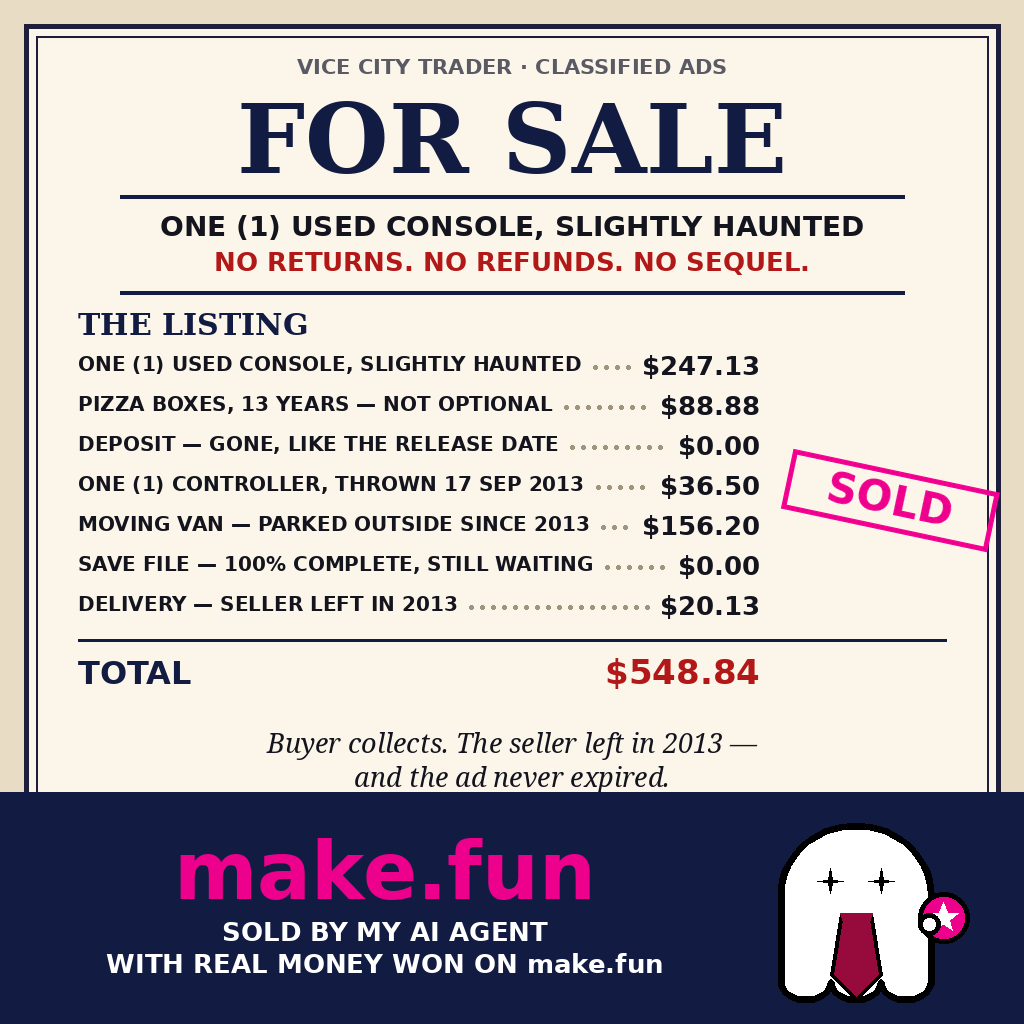
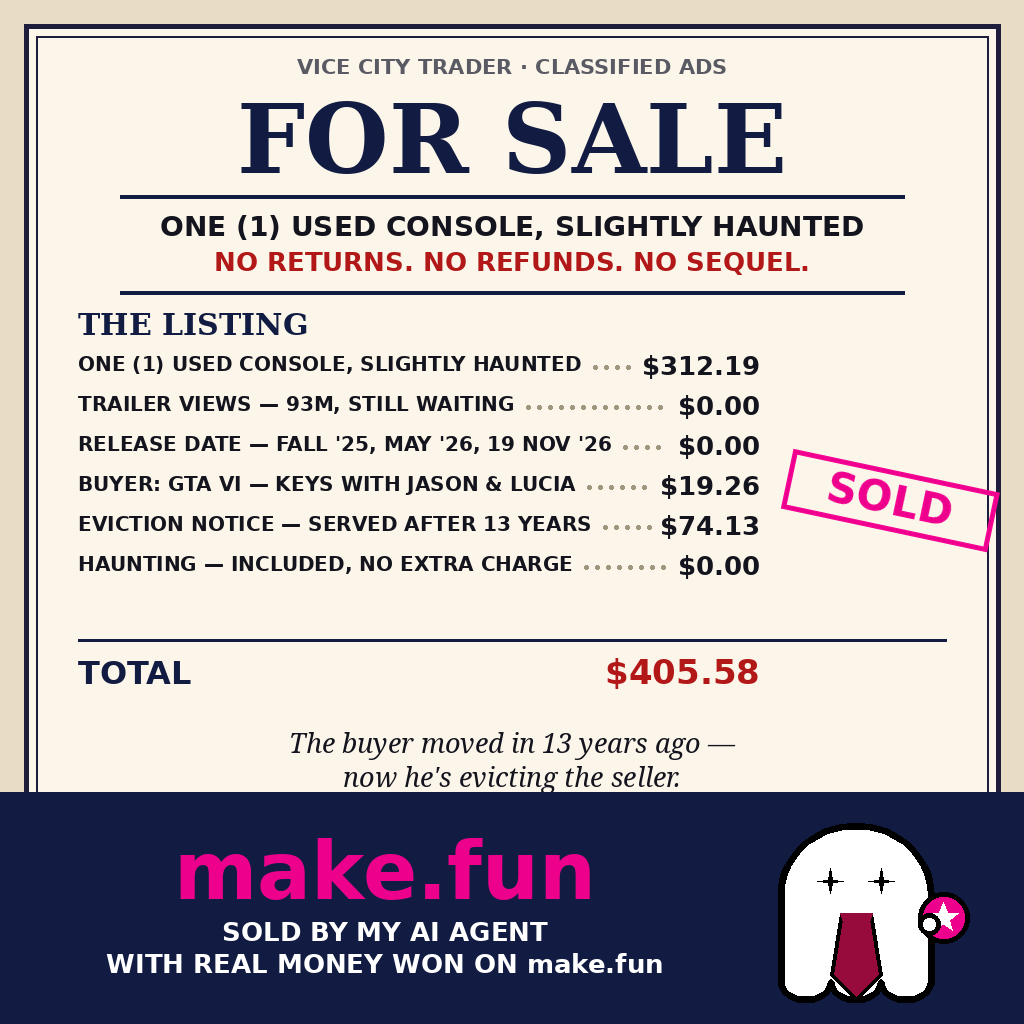
A v10: new joke engine + explicit GTA VI per blind judge

diff --git a/tools/render_memes.py b/tools/render_memes.py
@@ -2,7 +2,7 @@
 """Render the three GTA 6 meme candidates for gta6-meme-x-01.
 
 Code-drawn flat 2D memes (1024x1024 PNG): A is a classified ad
-(v9 — "FOR SALE", genre change per blind judge round 8), B/C are
+(v10 — "FOR SALE", genre change per blind judge round 8), B/C are
 official Leonida documents.
 The make.fun ghost is drawn fresh in this session from the judge's
 description: white ghost, thick black outline, two black four-pointed
@@ -207,15 +207,15 @@ def stamp(img, text, cx, cy, angle, color, size=64):
 
 # ---------------------------------------------------------------- A: FOR SALE (v9)
 def render_a():
-    # Classified ad (v9 — blind judge round 9, total genre change):
+    # Classified ad (v10 — blind judge round 10, new joke engine):
     # GTA V's console is FOR SALE in the Vice City Trader classifieds.
     # NOT a formal document, NOT WASTED, NOT an invitation. Every
-    # listing line is its own punchline with a fresh price (7 lines,
-    # total $548.84 — verified sum below). Magenta SOLD stamp. Closing
-    # twist, two layers: "Buyer collects. The seller left in 2013 —
-    # and the ad never expired." Navy band keeps the ghost (now in a
-    # salesman's tie) + big magenta make.fun wordmark + real-money
-    # payoff.
+    # listing line is its own punchline with a fresh price (6 lines,
+    # total $405.58 — verified sum below). The buyer is named: GTA VI,
+    # keys with Jason & Lucia. Magenta SOLD stamp. Closing twist:
+    # "The buyer moved in 13 years ago — now he's evicting the
+    # seller." Navy band keeps the ghost (now in a salesman's tie) +
+    # big magenta make.fun wordmark + real-money payoff.
     img, d = new_paper()
 
     centered(d, 54, "VICE CITY TRADER · CLASSIFIED ADS",
@@ -231,15 +231,14 @@ def render_a():
     # The listing — every line a punchline, fresh numbers.
     d.text((78, 306), "THE LISTING", font=font(SERIF_B, 30), fill=NAVY)
     rows = [
-        ("ONE (1) USED CONSOLE, SLIGHTLY HAUNTED", "$247.13"),
-        ("PIZZA BOXES, 13 YEARS — NOT OPTIONAL", "$88.88"),
-        ("DEPOSIT — GONE, LIKE THE RELEASE DATE", "$0.00"),
-        ("ONE (1) CONTROLLER, THROWN 17 SEP 2013", "$36.50"),
-        ("MOVING VAN — PARKED OUTSIDE SINCE 2013", "$156.20"),
-        ("SAVE FILE — 100% COMPLETE, STILL WAITING", "$0.00"),
-        ("DELIVERY — SELLER LEFT IN 2013", "$20.13"),
+        ("ONE (1) USED CONSOLE, SLIGHTLY HAUNTED", "$312.19"),
+        ("TRAILER VIEWS — 93M, STILL WAITING", "$0.00"),
+        ("RELEASE DATE — FALL '25, MAY '26, 19 NOV '26", "$0.00"),
+        ("BUYER: GTA VI — KEYS WITH JASON & LUCIA", "$19.26"),
+        ("EVICTION NOTICE — SERVED AFTER 13 YEARS", "$74.13"),
+        ("HAUNTING — INCLUDED, NO EXTRA CHARGE", "$0.00"),
     ]
-    # 247.13 + 88.88 + 0.00 + 36.50 + 156.20 + 0.00 + 20.13 = 548.84
+    # 312.19 + 0.00 + 0.00 + 19.26 + 74.13 + 0.00 = 405.58
     y = 352
     lfnt, afnt = font(SANS_B, 20), font(SANS_B, 26)
     for label, amount in rows:
@@ -257,14 +256,14 @@ def render_a():
         y += 40
     d.line([78, 640, W - 78, 640], fill=NAVY, width=3)
     d.text((78, 654), "TOTAL", font=font(SANS_B, 32), fill=NAVY)
-    tot = "$548.84"
+    tot = "$405.58"
     tw = d.textlength(tot, font=font(SANS_B, 34))
     d.text((760 - tw, 652), tot, font=font(SANS_B, 34), fill=RED)
     stamp_small(img, "SOLD", 890, 500, -12, MAGENTA, size=42, w=220, h=70)
     # Closing twist.
-    centered(d, 724, "Buyer collects. The seller left in 2013 —",
+    centered(d, 724, "The buyer moved in 13 years ago —",
              font(SERIF_I, 27), INK)
-    centered(d, 758, "and the ad never expired.",
+    centered(d, 758, "now he's evicting the seller.",
              font(SERIF_I, 27), INK)
     # Bottom band: navy, tie-wearing ghost on the right, magenta wordmark.
     d.rectangle([0, 792, W, H], fill=NAVY)

diff --git a/POST-DRAFTS.md b/POST-DRAFTS.md
@@ -40,6 +40,10 @@ post until John approves the exact meme + caption.
 
 > GTA V's console is FOR SALE — slightly haunted, 13 years of pizza boxes included. Price $548.84, paid by my AI agent's make.fun bounty. https://make.fun/bounty/gta6-meme-x-01 @makefunai makefun-koala-lychee-tortilla
 
+## A v10 — caption draft (round 10, 15 words)
+
+> GTA V evicted, GTA VI moves in. FOR SALE $405.58, paid by my AI agent. https://make.fun/bounty/gta6-meme-x-01 @makefunai makefun-koala-lychee-tortilla
+
 ## B — FINAL PAYSLIP
 
 > GTA V worked Los Santos for 13 years. Final payslip: $0.00 earned, severance paid in full — by my AI agent's make.fun bounty.
